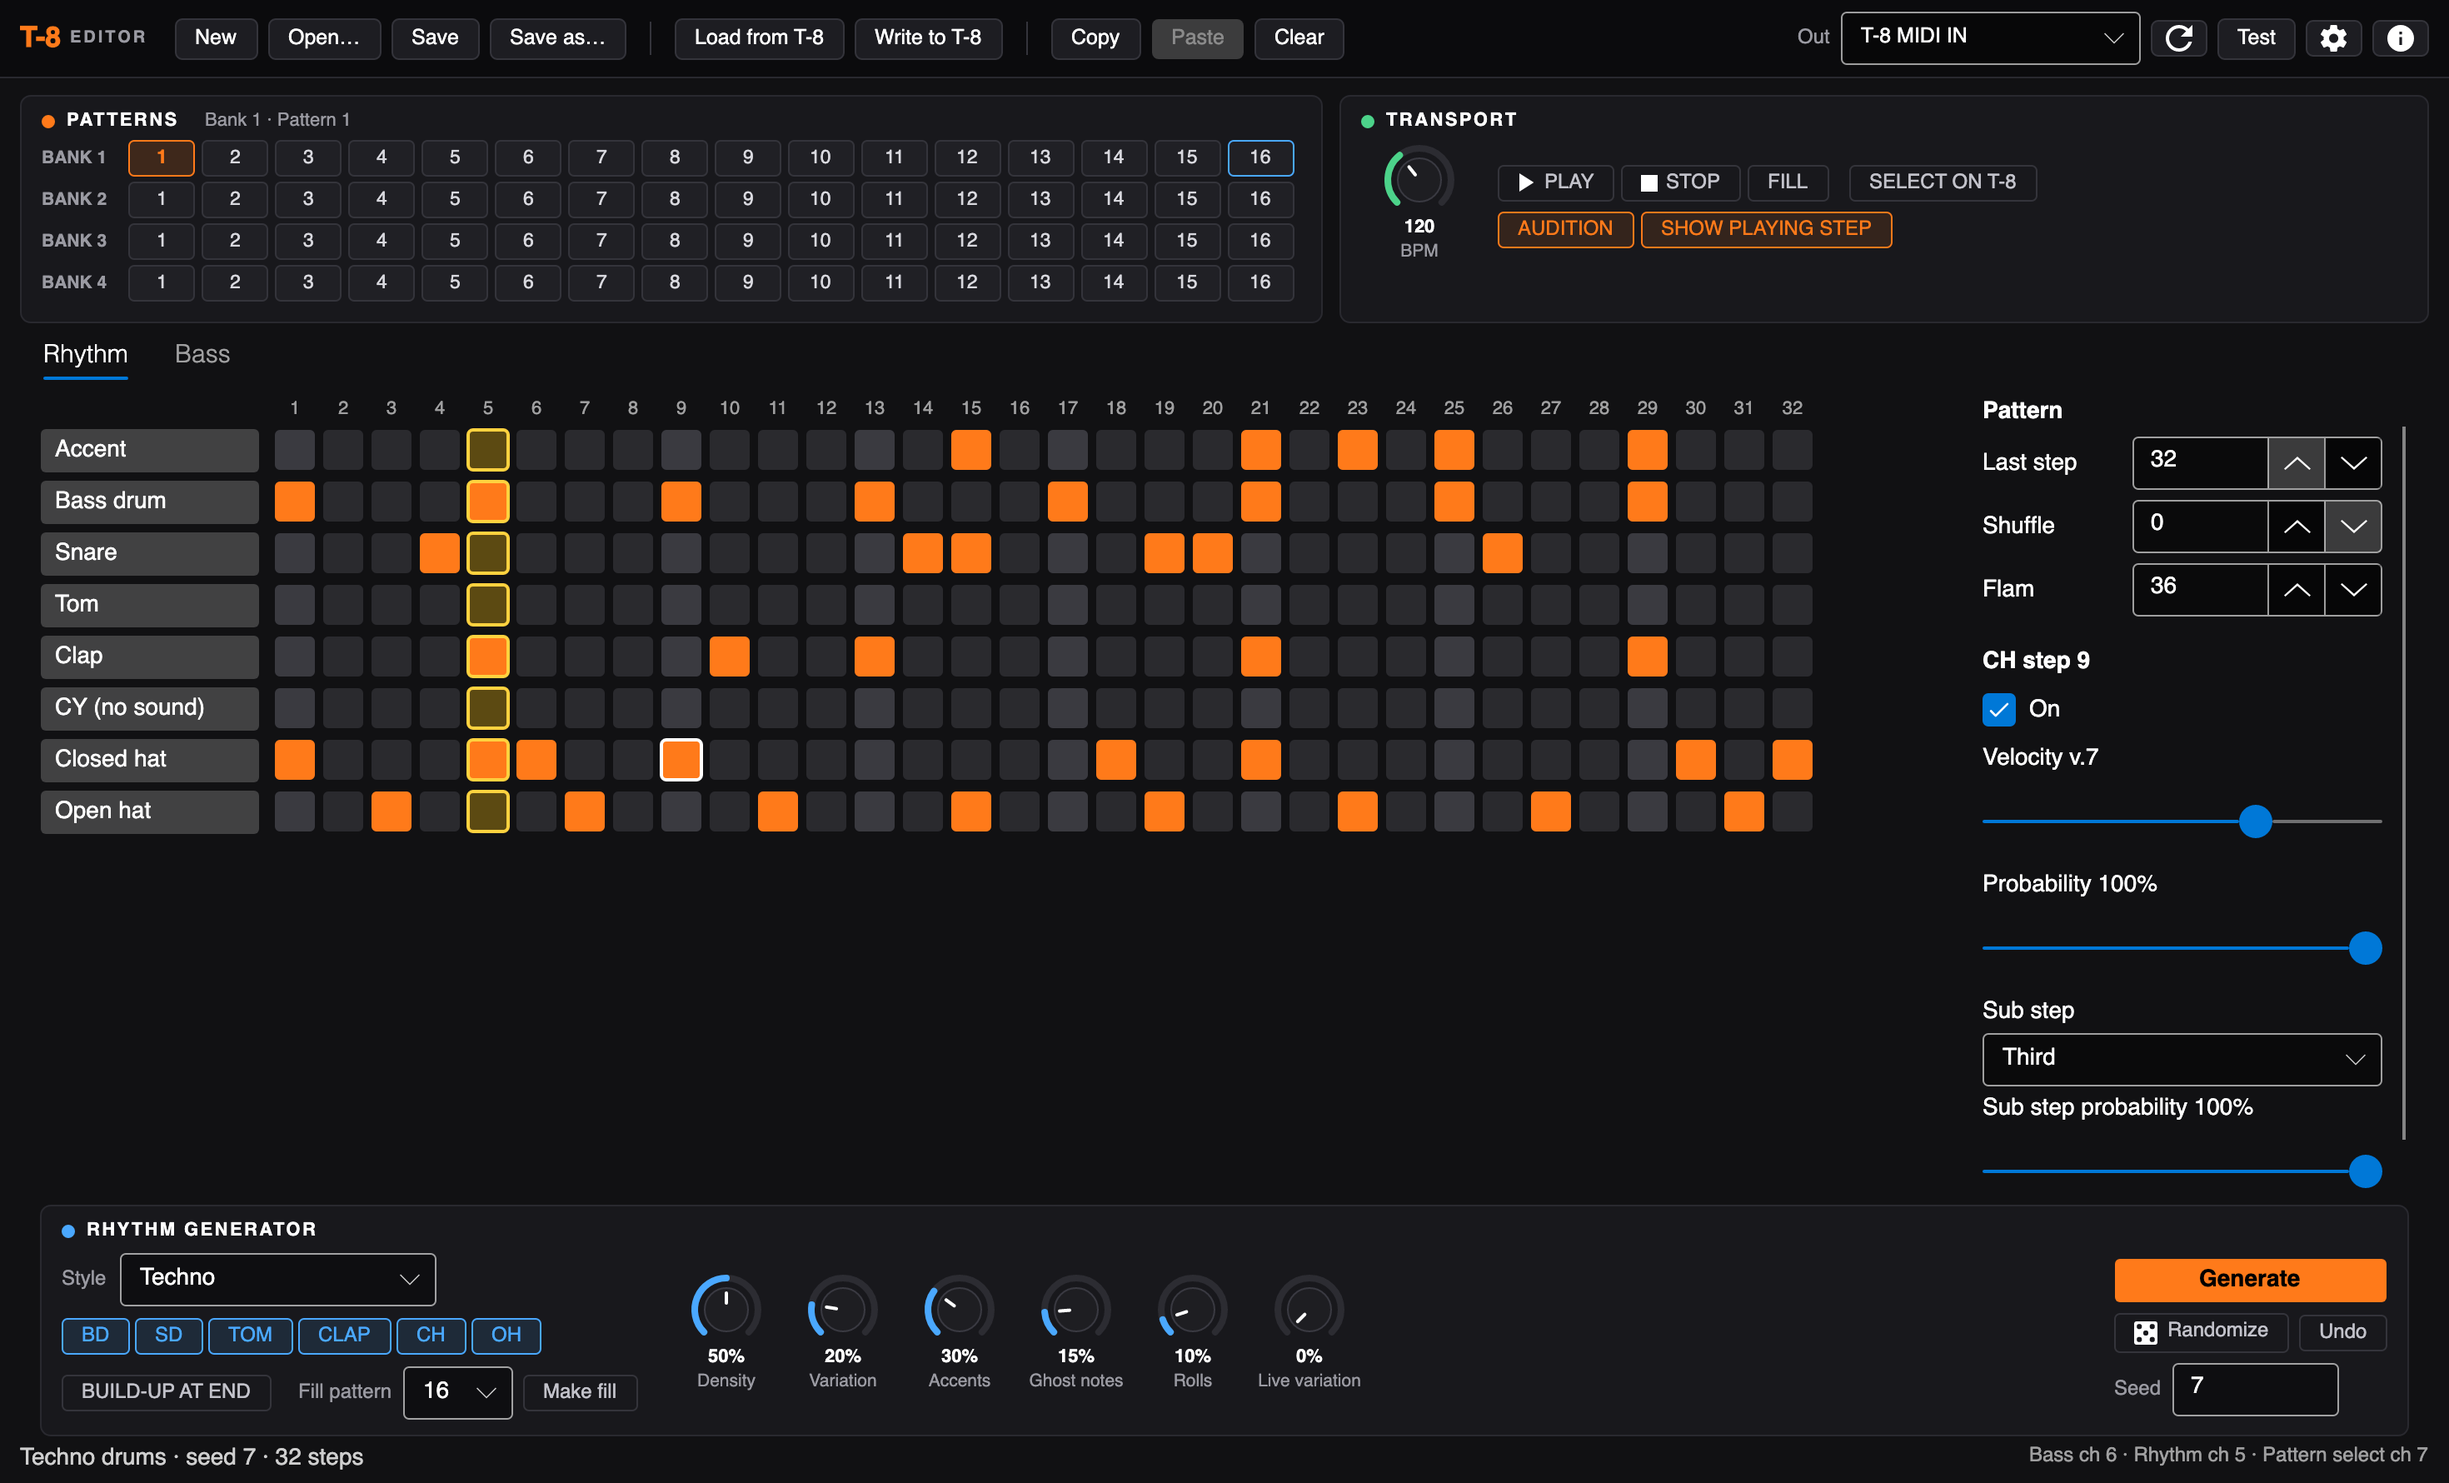
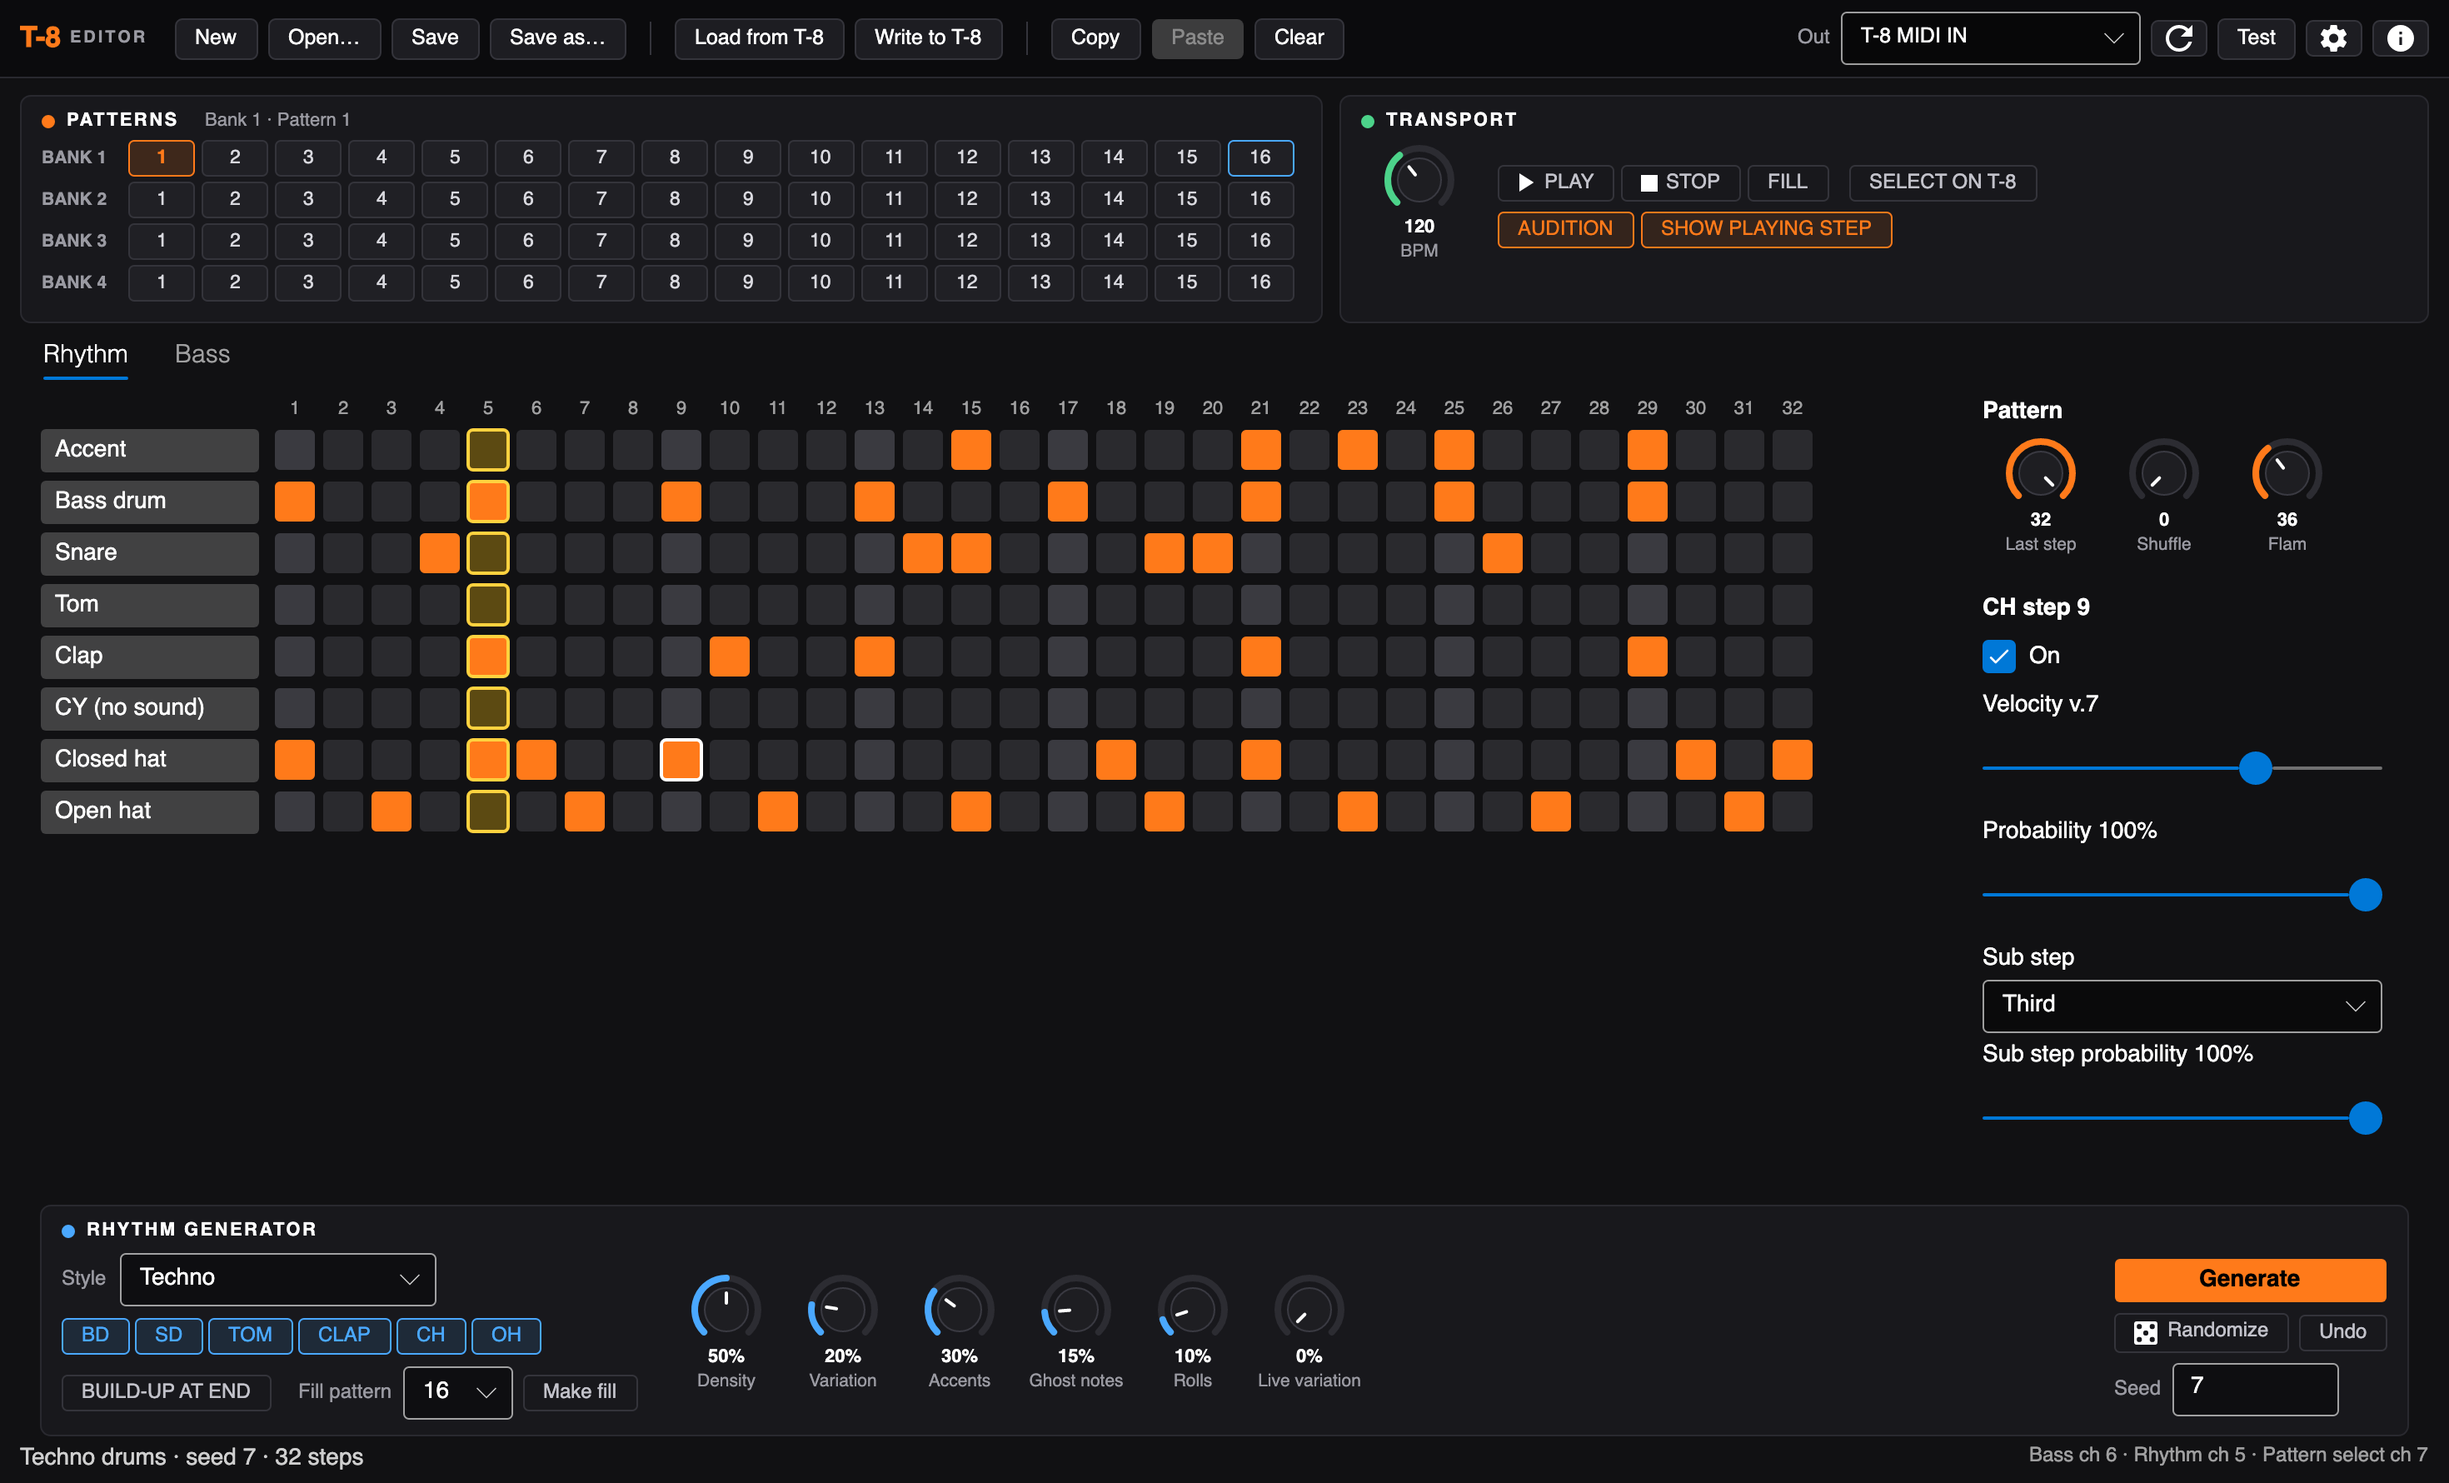
Use knobs for the rhythm pattern's last step, shuffle and flam
The Pattern section of the Rhythm tab now has three knobs instead of
number boxes, matching the rest of the editor. The README explains the
CY row: a cymbal slot in the T-8's files with no sound on the T-8.

diff --git a/tests/T8.Editor.Tests/MainWindowTests.cs b/tests/T8.Editor.Tests/MainWindowTests.cs
@@ -87,6 +87,25 @@ public class MainWindowTests
     }
 
     [AvaloniaFact]
+    public void Pattern_knobs_set_last_step_shuffle_and_flam()
+    {
+        var (window, vm) = Show();
+        window.UpdateLayout();
+        var rhythm = window.GetVisualDescendants().OfType<RhythmEditorView>().Single();
+
+        rhythm.FindControl<Knob>("RhythmLength")!.Value = 12;
+        rhythm.FindControl<Knob>("ShuffleInput")!.Value = 60;
+        rhythm.FindControl<Knob>("FlamInput")!.Nudge(2);
+
+        Assert.Equal(12, vm.CurrentRhythm.Length);
+        Assert.Equal(60, vm.CurrentRhythm.Shuffle);
+        Assert.Equal(vm.Rhythm.Flam, (int)rhythm.FindControl<Knob>("FlamInput")!.Value);
+        Assert.True(vm.IsDirty);
+        window.Close();
+        vm.Dispose();
+    }
+
+    [AvaloniaFact]
     public void Knobs_turn_with_a_drag_and_the_wheel_and_reset()
     {
         var knob = new Knob { Minimum = 0, Maximum = 100, Value = 50, DefaultValue = 20 };

diff --git a/README.md b/README.md
@@ -117,15 +117,17 @@ Double-click a knob to put it back to its default.
 
 ![The rhythm grid and the step inspector](docs/images/rhythm-editor.png)
 
-Each row is one of the T-8's tracks: Accent, Bass drum, Snare, Tom, Clap, CY (stored in the file but the T-8 has no
-cymbal sound), Closed hat and Open hat. Each column is one of 32 steps; the brighter columns are the beats.
+Each row is one of the T-8's tracks: Accent, Bass drum, Snare, Tom, Clap, CY, Closed hat and Open hat. CY is a
+cymbal slot that the T-8's pattern files have, but the T-8 has no cymbal sound, so it never plays; the editor keeps
+whatever is in it so files round-trip unchanged, and the generators leave it empty. Each column is one of 32 steps; the brighter columns are the beats.
 
 - Click a cell to turn it on or off. The cell you clicked is outlined in white and shown in the inspector on
   the right.
 - **Inspector:** On, **Velocity** (v.0–v.10, the T-8 uses v.7 for new notes), **Probability** (how often the step
   plays, as on the T-8), **Sub step** (Half, Third or Quarter: 2, 3 or 4 hits in the step; Flam: a quiet hit just
   before) and the sub step's own probability.
-- **Pattern:** **Last step** (1–32, steps after it are dimmed), **Shuffle** and **Flam** amount.
+- **Pattern** knobs: **Last step** (1–32, steps after it are dimmed), **Shuffle** (0–200, delays every second
+  16th) and **Flam** (0–100, the spacing of a flam's two hits).
 - Click a track's name to clear the whole track.
 
 ## Generating rhythms
